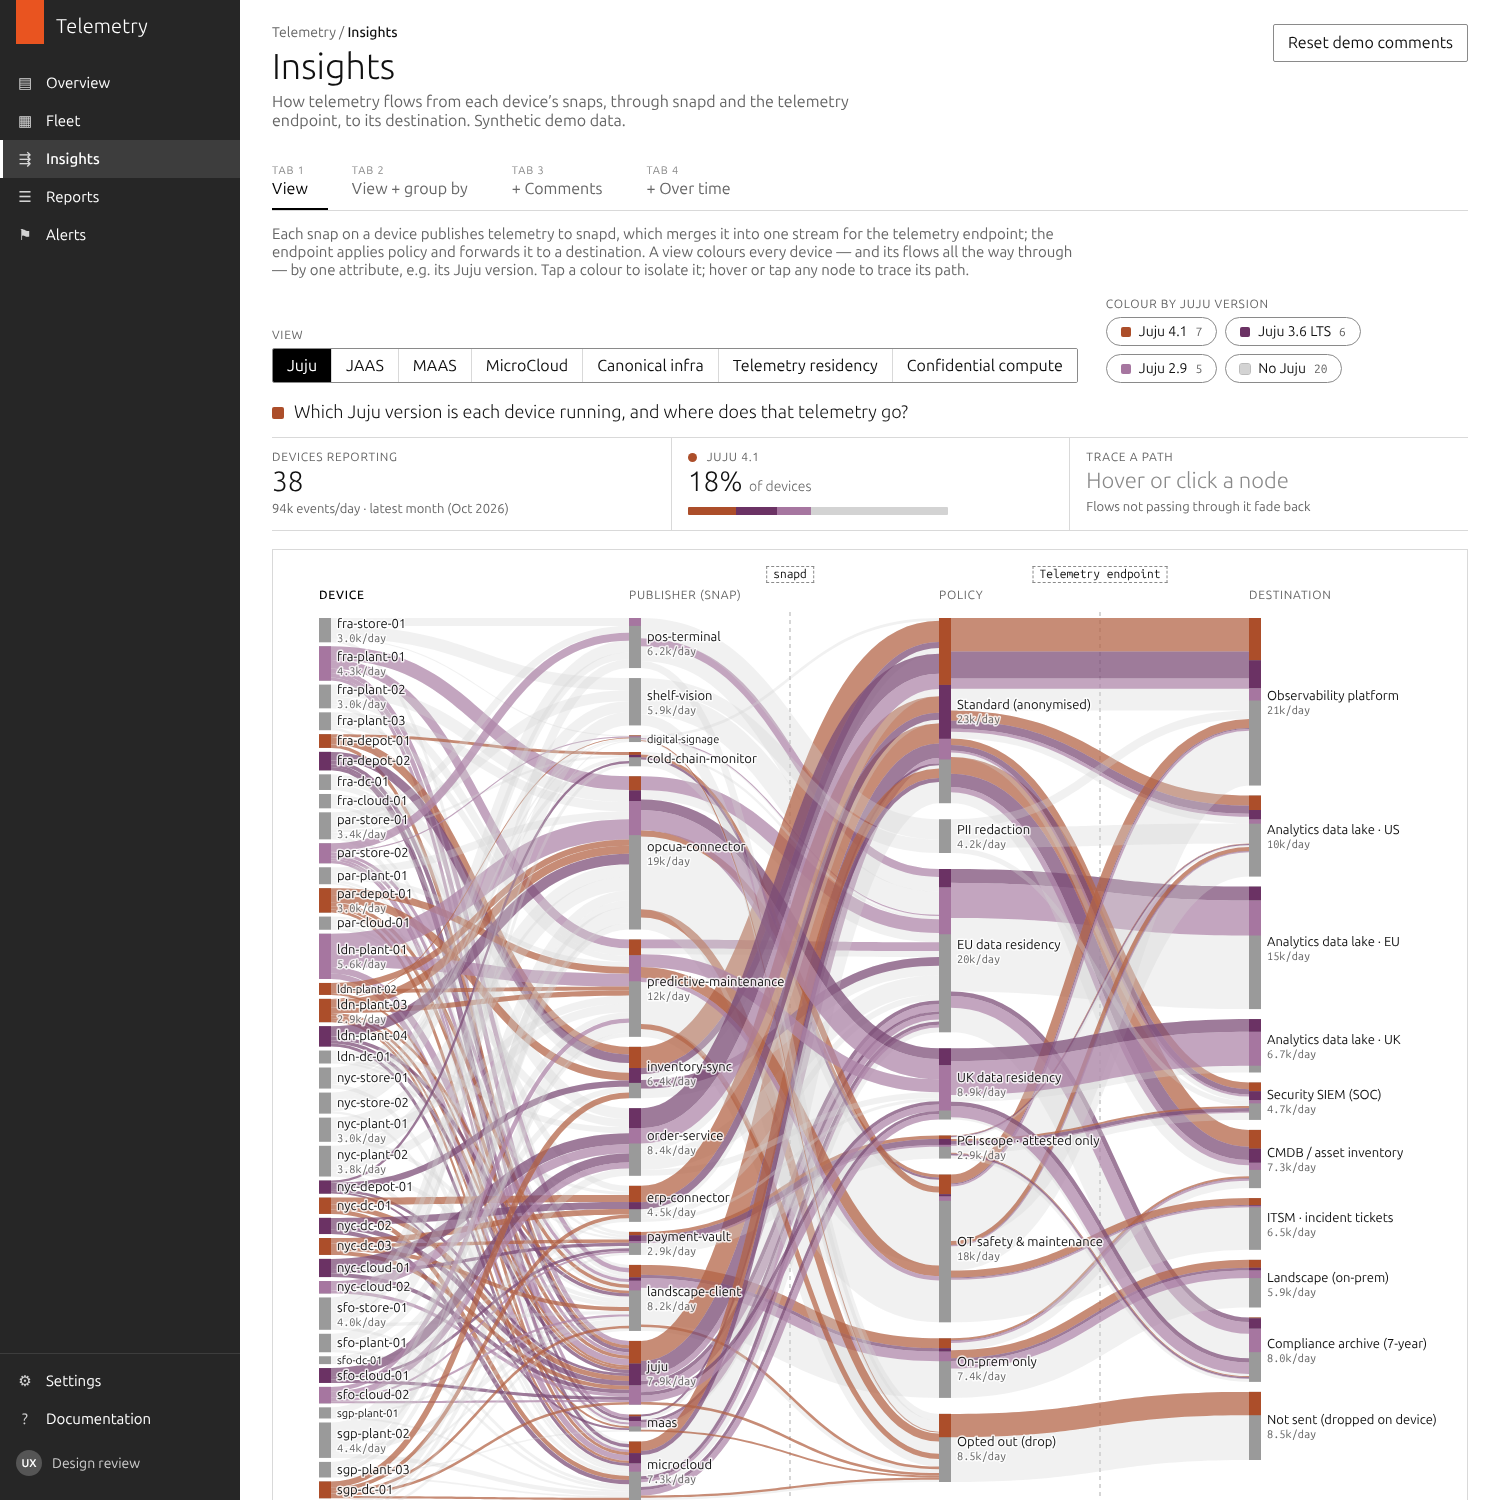
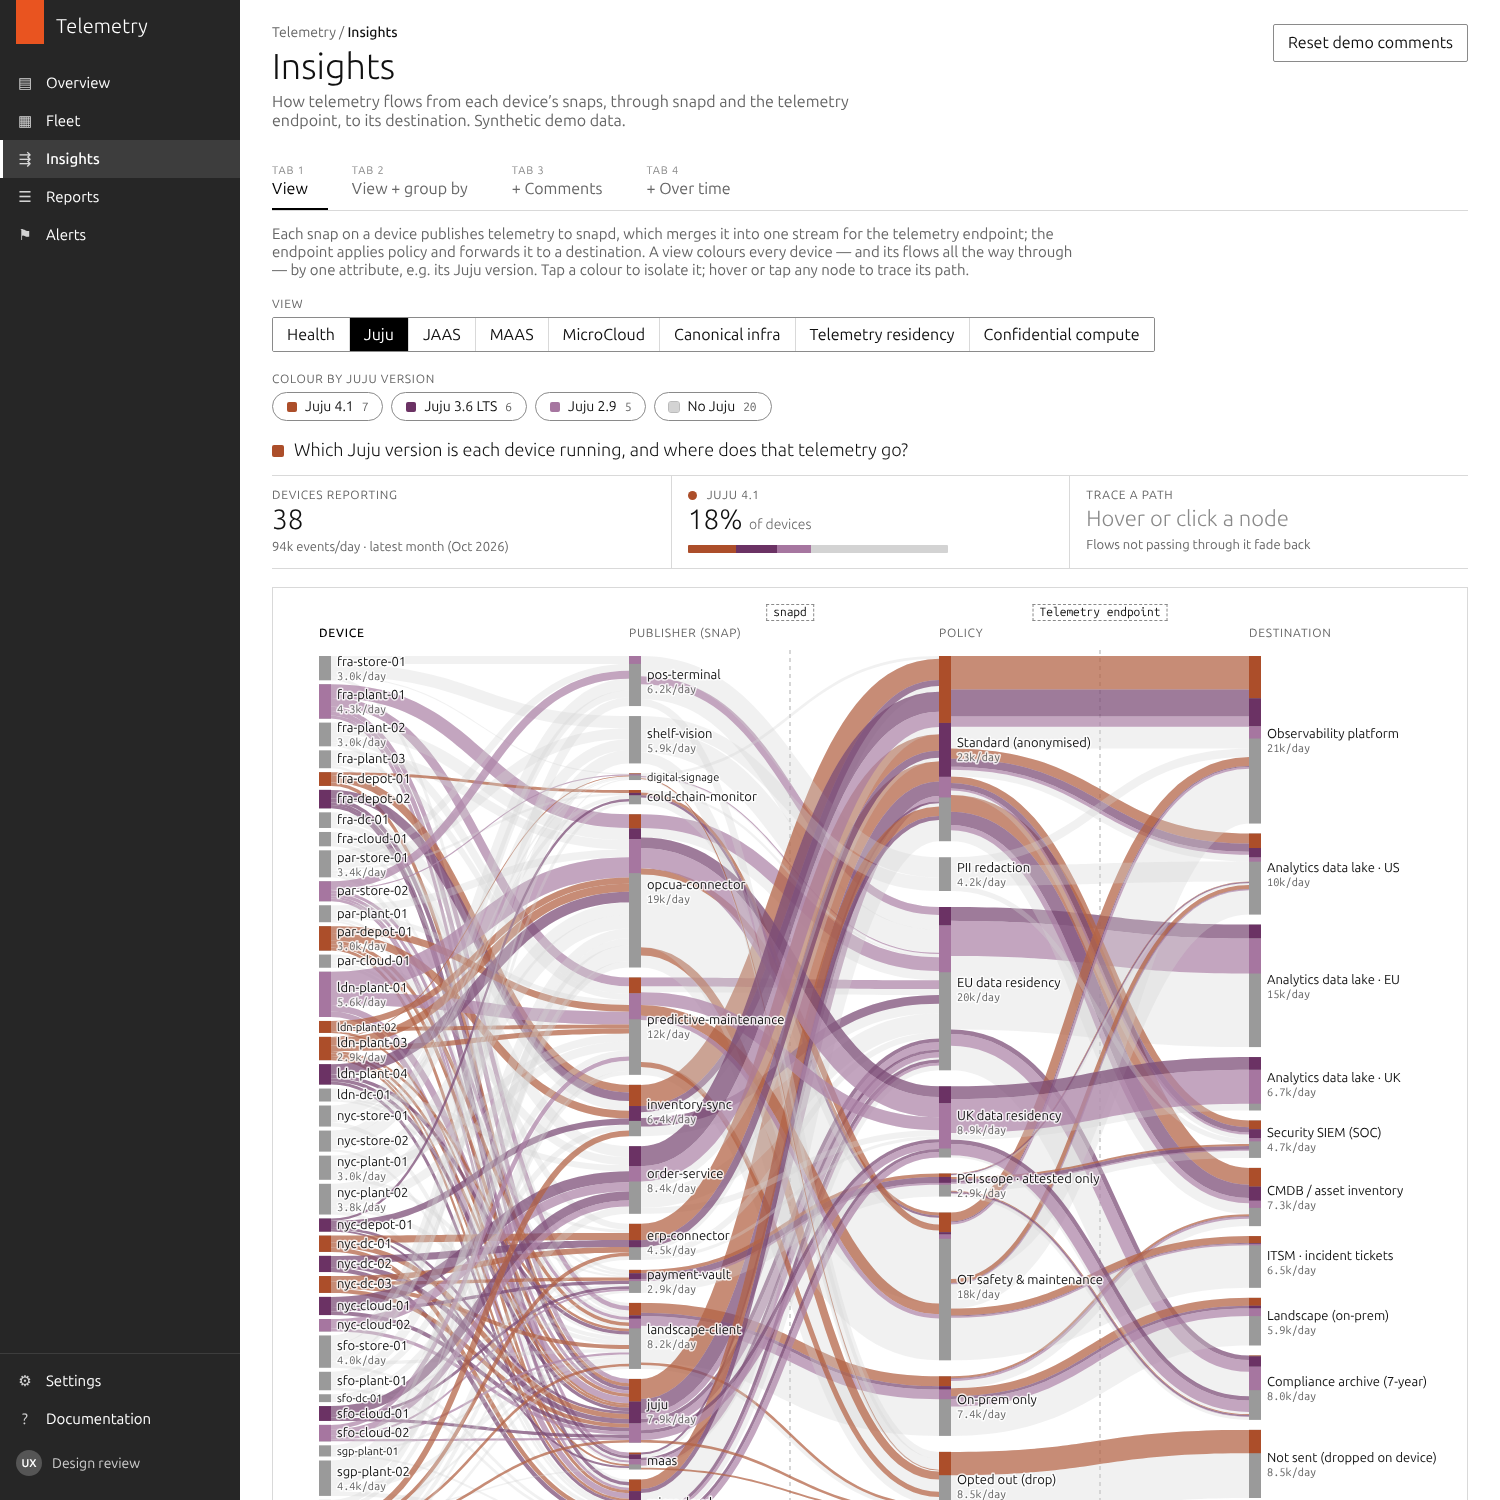
Add device health: composite score, 10-point bands, gradient scale
Health is a 0-100 score per device per month built from weighted
components (patch currency, snap refresh currency, release support,
reporting regularity, policy compliance, stability), shown as a view and
group-by in bands of 10. Bands use a diverging gradient derived from the
design palette (rust -> neutral -> teal, interpolated in OKLCH). Adds an
average-health KPI with trend, a per-component breakdown in device
tooltips, Ubuntu 20.04 (ESM) for neglected devices, and a seeded comment.

Claude-Session: https://claude.ai/code/session_0156BKrAD5wHGfcWHmuamSMf

Changed region(s): [[0.184, 0.2147, 0.9507, 1.0]]

diff --git a/js/data.js b/js/data.js
@@ -122,13 +122,27 @@ window.TL = window.TL || {};
       { id: 'fra', label: 'Frankfurt' }, { id: 'par', label: 'Paris' }, { id: 'ldn', label: 'London' },
       { id: 'nyc', label: 'New York' }, { id: 'sfo', label: 'San Francisco' }, { id: 'sgp', label: 'Singapore' }] },
     release: { label: 'Ubuntu release', short: 'Release', values: [
-      { id: '2204', label: 'Ubuntu 22.04 LTS' }, { id: '2404', label: 'Ubuntu 24.04 LTS' }, { id: '2604', label: 'Ubuntu 26.04 LTS' }] }
+      { id: '2004', label: 'Ubuntu 20.04 (ESM)' }, { id: '2204', label: 'Ubuntu 22.04 LTS' }, { id: '2404', label: 'Ubuntu 24.04 LTS' }, { id: '2604', label: 'Ubuntu 26.04 LTS' }] }
   };
+
+  // Health bands use a diverging gradient built from the palette's own hues:
+  // palette rust (#79331A, #AC4E2A, #BC6D4C) for the worst bands, lightening
+  // to a neutral taupe/olive in the middle, then palette teal (#63998C)
+  // darkening to deep teal for the healthiest. Intermediate steps were
+  // interpolated in OKLCH so lightness mirrors either side of the middle and
+  // adjacent bands are roughly equal visual steps apart.
+  const HEALTH_RAMP = ['#79331A', '#AC4E2A', '#BC6D4C', '#BD876F', '#BE9D87', '#A7A880', '#8B9D75', '#63998C', '#3E786C', '#1C5B52'];
+  const HEALTH_BANDS = HEALTH_RAMP.map(function (c, i) {
+    const lo = i === 0 ? 0 : i * 10 + 1, hi = (i + 1) * 10;
+    return { id: lo + '-' + hi, label: lo + '–' + hi, color: c, lo: lo, hi: hi };
+  }).reverse(); // healthiest first
+  ATTRIBUTES.health = { label: 'Health', short: 'Health', ordinal: true, values: HEALTH_BANDS };
+  function healthBand(score) { return score <= 10 ? '0-10' : (Math.floor((score - 1) / 10) * 10 + 1) + '-' + (Math.floor((score - 1) / 10) * 10 + 10); }
 
   // assign palette colours: values marked `color: true` take the next colour
   // from the row matching the number of coloured values in that attribute
   Object.keys(ATTRIBUTES).forEach(function (k) {
-    const coloured = ATTRIBUTES[k].values.filter(function (v) { return v.color; });
+    const coloured = ATTRIBUTES[k].values.filter(function (v) { return v.color === true; });
     const row = paletteFor(coloured.length);
     coloured.forEach(function (v, i) { v.color = row[i]; });
   });
@@ -277,10 +291,58 @@ window.TL = window.TL || {};
     const layers = (a.maas !== 'none') + (a.microcloud === 'member') + (a.juju !== 'none');
     return a.juju !== 'none' && layers >= 2 ? 'full' : layers >= 1 ? 'partial' : 'none';
   }
+  // ---- Health: a composite 0–100 score per device per month ----------
+  // Weighted components (each 0–100). Edit weights or inputs here.
+  const HEALTH_COMPONENTS = [
+    { id: 'patch', label: 'Security patch currency', weight: 0.25 },
+    { id: 'snaps', label: 'Snap refresh currency', weight: 0.20 },
+    { id: 'release', label: 'Release support', weight: 0.15 },
+    { id: 'reporting', label: 'Reporting regularity', weight: 0.15 },
+    { id: 'policy', label: 'Policy compliance', weight: 0.15 },
+    { id: 'stability', label: 'Stability (crash rate)', weight: 0.10 }
+  ];
+  DEVICES.forEach(function (d, i) {
+    const r = mulberry32(7919 * (i + 1));
+    const neglected = r() < 0.2; // devices nobody is looking after
+    const ageing = !neglected && r() < 0.3; // patched, but slowly
+    const edge = d.attrs.site === 'store' || d.attrs.site === 'factory';
+    if (neglected && r() < 0.6) { // still on 20.04, never upgraded
+      d.attrs.release = '2004';
+      d.changes = d.changes.filter(function (c) { return !c.attrs.release; });
+    }
+    d.health = {
+      patch: neglected ? r() * 20 : ageing ? 35 + r() * 25 : (edge ? 65 : 80) + r() * 20,
+      snaps: neglected ? r() * 25 : ageing ? 40 + r() * 25 : 65 + r() * 30,
+      reporting: neglected ? 10 + r() * 40 : (edge ? 70 : 85) + r() * 15,
+      policy: neglected ? 20 + r() * 30 : null, // stale consent / policy settings
+      stability: neglected ? 40 + r() * 40 : 75 + r() * 25,
+      improve: neglected ? (r() < 0.4 ? 5 : 0) : ageing ? r() * 1.5 : r() * 0.8, // points per month as patching catches up
+      incident: r() < 0.3 ? Math.floor(r() * 12) : -1,          // one bad month
+      noise: r
+    };
+    d.health.noiseByMonth = MONTHS.map(function () { return (d.health.noise() - 0.5) * 8; });
+  });
+  function healthAt(d, a, m) {
+    const h = d.health, clamp = function (x) { return Math.max(0, Math.min(100, x)); };
+    const parts = {
+      patch: clamp(h.patch + h.improve * m + h.noiseByMonth[m]),
+      snaps: clamp(h.snaps + h.improve * m * 0.8 - (a.juju === '2.9' ? 20 : 0)),
+      release: a.release === '2604' ? 100 : a.release === '2404' ? 90 : a.release === '2204' ? 65 : 15,
+      reporting: a.consent === 'optout' ? 20 : h.incident === m ? 35 : clamp(h.reporting + h.noiseByMonth[m]),
+      policy: h.policy != null ? h.policy : (REGION_SOV[a.region] && a.sovereignty === 'none') ? 55 : a.consent === 'optout' ? 60 : 95,
+      stability: h.incident === m ? 5 : clamp(h.stability + h.noiseByMonth[m])
+    };
+    let score = 0;
+    HEALTH_COMPONENTS.forEach(function (c) { score += parts[c.id] * c.weight; });
+    return { score: Math.round(clamp(score)), parts: parts };
+  }
+
   function attrsAt(d, m) {
     const a = Object.assign({}, d.attrs);
     d.changes.forEach(function (c) { if (c.month <= m) Object.assign(a, c.attrs); });
     a.stack = deriveStack(a);
+    const h = healthAt(d, a, m);
+    a.healthScore = h.score; a.healthParts = h.parts; a.health = healthBand(h.score);
     return a;
   }
   function publishersFor(d, a) {
@@ -355,6 +417,7 @@ window.TL = window.TL || {};
   // ---- Views & group-bys ----------------------------------------------
   // A view = one attribute to colour by + the question it answers.
   const VIEWS = [
+    { id: 'health', attr: 'health', label: 'Health', question: 'How healthy is each device, and where does telemetry from unhealthy devices go?' },
     { id: 'juju', attr: 'juju', label: 'Juju', question: 'Which Juju version is each device running, and where does that telemetry go?' },
     { id: 'jaas', attr: 'jaas', label: 'JAAS', question: 'Which devices are managed through JAAS versus self-hosted controllers?' },
     { id: 'maas', attr: 'maas', label: 'MAAS', question: 'Which devices are provisioned by MAAS, and on which version?' },
@@ -363,11 +426,11 @@ window.TL = window.TL || {};
     { id: 'sovereignty', attr: 'sovereignty', label: 'Telemetry residency', question: 'Which residency rule does each device’s telemetry follow, and where does it end up?' },
     { id: 'confidential', attr: 'confidential', label: 'Confidential compute', question: 'Which devices run confidential VMs, and where does their payment telemetry go?' }
   ];
-  const GROUP_BYS = ['device', 'site', 'juju', 'jaas', 'maas', 'microcloud', 'stack', 'sovereignty', 'confidential', 'type', 'region', 'release'];
+  const GROUP_BYS = ['device', 'health', 'site', 'juju', 'jaas', 'maas', 'microcloud', 'stack', 'sovereignty', 'confidential', 'type', 'region', 'release'];
 
   Object.assign(TL, {
     MONTHS: MONTHS, monthLabel: monthLabel,
-    ATTRIBUTES: ATTRIBUTES, DIMENSIONS: DIMENSIONS, ROUTING: ROUTING, PALETTE: PALETTE,
+    ATTRIBUTES: ATTRIBUTES, DIMENSIONS: DIMENSIONS, ROUTING: ROUTING, PALETTE: PALETTE, HEALTH_COMPONENTS: HEALTH_COMPONENTS, HEALTH_RAMP: HEALTH_RAMP,
     // shared infrastructure every flow passes through (drawn between columns)
     WAYPOINTS: [
       { after: 'publisher', label: 'snapd', sub: 'one stream per device' },

diff --git a/js/app.js b/js/app.js
@@ -229,11 +229,22 @@
       return '<span class="p-dist__seg" style="flex:' + c + ';background:' + (v.color || '#d3d3d3') + '" title="' + esc(v.label) + ': ' + c + '"></span>';
     }).join('');
     const iso = state.isolate[state.view];
-    const kv = iso ? a.values.filter(function (x) { return x.id === iso; })[0] : a.values[0];
-    const share = counts._total ? (counts[kv.id] || 0) / counts._total * 100 : 0;
-    items.push(kpi('<span class="dot" style="background:' + (kv.color || '#999') + '"></span>' + esc(kv.label),
-      share.toFixed(0) + '% <span class="p-kpi__unit">of devices</span>',
-      '<span class="p-dist">' + bar + '</span>', t.time ? sparkline(kv) : ''));
+    if (view().attr === 'health' && !iso) {
+      // health is a score: show the fleet average and its trend
+      const avg = avgHealth(pi);
+      const band = TL.valueOf('health', bandOf(avg));
+      items.push(kpi('<span class="dot" style="background:' + band.color + '"></span>Average health',
+        Math.round(avg) + ' <span class="p-kpi__unit">/ 100</span>',
+        '<span class="p-dist">' + bar + '</span>',
+        t.time ? sparkline(TL.MONTHS.map(function (_, m) { return avgHealth(m); }), band.color) : ''));
+    } else {
+      const kv = iso ? a.values.filter(function (x) { return x.id === iso; })[0] : a.values[0];
+      const share = counts._total ? (counts[kv.id] || 0) / counts._total * 100 : 0;
+      items.push(kpi('<span class="dot" style="background:' + (kv.color || '#999') + '"></span>' + esc(kv.label),
+        share.toFixed(0) + '% <span class="p-kpi__unit">of devices</span>',
+        '<span class="p-dist">' + bar + '</span>',
+        t.time ? sparkline(TL.MONTHS.map(function (_, m) { const c = deviceCounts(m, view().attr); return c._total ? (c[kv.id] || 0) / c._total * 100 : 0; }), kv.color || '#666') : ''));
+    }
     const focusId = state.hover || state.selected;
     if (focusId && agg.nodes[focusId]) {
       const n = agg.nodes[focusId];
@@ -248,10 +259,22 @@
   function kpi(label, value, sub, extra, wide) {
     return '<div class="p-kpi' + (wide ? ' p-kpi--wide' : '') + '"><div class="p-kpi__label">' + label + '</div><div class="p-kpi__value">' + value + '</div><div class="p-kpi__sub">' + sub + '</div>' + (extra || '') + '</div>';
   }
-  function sparkline(kv) {
-    const vals = TL.MONTHS.map(function (_, m) { const c = deviceCounts(m, view().attr); return c._total ? (c[kv.id] || 0) / c._total * 100 : 0; });
+  // average health score of the (filtered) devices reporting in month m
+  function avgHealth(m) {
+    const seen = {}, f = filterFn(); let sum = 0, n = 0;
+    TL.snapshot(m).forEach(function (x) {
+      if (seen[x.device] || (f && !f(x))) return;
+      seen[x.device] = 1; sum += x.healthScore; n++;
+    });
+    return n ? sum / n : 0;
+  }
+  function bandOf(score) {
+    score = Math.round(score);
+    return TL.ATTRIBUTES.health.values.filter(function (v) { return score >= v.lo && score <= v.hi; })[0].id;
+  }
+  function sparkline(vals, col) {
     const min = Math.min.apply(null, vals), max = Math.max.apply(null, vals);
-    const W = 120, H = 30, rng = (max - min) || 1, col = kv.color || '#666';
+    const W = 120, H = 30, rng = (max - min) || 1;
     const pts = vals.map(function (v, i) { return (i / LAST * W).toFixed(1) + ',' + (H - 3 - (v - min) / rng * (H - 6)).toFixed(1); });
     const cx = month() / LAST * W, iy = H - 3 - (vals[periodIndex()] - min) / rng * (H - 6);
     return '<svg class="p-kpi__spark" viewBox="0 0 ' + W + ' ' + H + '" width="' + W + '" height="' + H + '" aria-hidden="true">' +
@@ -435,7 +458,15 @@
     if (n.dim === 'device') {
       const d = TL.deviceAt(n.val, periodIndex());
       const a = d.attrs;
-      body = '<dl class="tooltip__attrs">' + ['site', 'type', 'region', 'juju', 'jaas', 'maas', 'microcloud', 'sovereignty', 'confidential', 'release'].map(function (k) {
+      const band = TL.valueOf('health', a.health);
+      body = '<div class="tooltip__health"><span class="dot" style="background:' + band.color + '"></span>Health <strong>' + a.healthScore + '</strong> <span class="tooltip__band">(' + band.label + ')</span></div>';
+      if (view().attr === 'health') {
+        body += '<dl class="tooltip__parts">' + TL.HEALTH_COMPONENTS.map(function (c) {
+          const v = Math.round(a.healthParts[c.id]);
+          return '<dt>' + esc(c.label) + ' <span>' + Math.round(c.weight * 100) + '%</span></dt><dd><span class="tooltip__bar"><span style="width:' + v + '%;background:' + TL.valueOf('health', bandOf(v)).color + '"></span></span>' + v + '</dd>';
+        }).join('') + '</dl>';
+      }
+      body += '<dl class="tooltip__attrs">' + ['site', 'type', 'region', 'juju', 'jaas', 'maas', 'microcloud', 'sovereignty', 'confidential', 'release'].map(function (k) {
         return '<dt>' + esc(TL.ATTRIBUTES[k].short) + '</dt><dd' + (k === view().attr ? ' class="is-view"' : '') + '>' + esc(TL.valueOf(k, a[k]).label) + '</dd>';
       }).join('') + '</dl>';
       const hist = d.changes.filter(function (c) { return c.month <= periodIndex(); });

diff --git a/css/app.css b/css/app.css
@@ -299,3 +299,14 @@ body[data-tab="3"] .insights__body, body[data-tab="4"] .insights__body { grid-te
   .chart-hint { display: block; }
   .p-search { width: 100%; min-width: 0; margin-left: 0; }
 }
+
+/* Health in tooltips */
+.tooltip__health { margin-top: 4px; }
+.tooltip__health strong { display: inline; font-weight: 600; }
+.tooltip__band { color: #bbb; }
+.tooltip__parts { display: grid; grid-template-columns: auto auto; gap: 2px 10px; margin: 6px 0 0; padding-bottom: 6px; border-bottom: 1px solid #333; font-size: .75rem; }
+.tooltip__parts dt { color: #ddd; }
+.tooltip__parts dt span { color: #999; }
+.tooltip__parts dd { margin: 0; display: flex; align-items: center; gap: 6px; font-family: "Ubuntu Sans Mono", ui-monospace, monospace; }
+.tooltip__bar { display: inline-block; width: 60px; height: 6px; background: #333; }
+.tooltip__bar span { display: block; height: 100%; }

diff --git a/js/comments.js b/js/comments.js
@@ -20,9 +20,11 @@
  */
 (function (TL) {
   'use strict';
-  const KEY = 'tl.insights.comments.v7';
+  const KEY = 'tl.insights.comments.v8';
 
   const SEED = [
+    { anchor: { view: 'health', groupBy: 'health', node: 'health:21-30', period: null },
+      author: 'Plant IT · London', body: 'This is ldn-plant-04: still on 20.04 and unpatched since the line was retooled. Booked for rebuild next month.' },
     { anchor: { view: 'juju', groupBy: 'juju', node: 'juju:2.9', period: null },
       author: 'Platform engineering', body: 'These are the last Juju 2.9 deployments. Can we export the device list for the upgrade backlog?' },
     { anchor: { view: 'juju', groupBy: 'juju', node: 'juju:4.1', period: '2026-06' },

diff --git a/README.md b/README.md
@@ -51,6 +51,32 @@ Policy rules route these by sensitivity:
 - factory and sensor data follow the OT policy to observability and ITSM (R7),
 - payment data is PCI scope, attested only (R2).
 
+## Health
+
+Health is a composite score from 0 to 100 per device per month, made of weighted components (`HEALTH_COMPONENTS` in `js/data.js`):
+
+| Component | Weight |
+|---|---|
+| Security patch currency | 25% |
+| Snap refresh currency | 20% |
+| Release support (26.04 = 100 … 20.04 ESM = 15) | 15% |
+| Reporting regularity | 15% |
+| Policy compliance | 15% |
+| Stability (crash rate) | 10% |
+
+The score is shown in ten bands: 0–10, 11–20 … 91–100.
+
+**Colours.** The bands use a diverging gradient built from the design palette:
+- **Worst bands:** the palette's rusts (`#79331A`, `#AC4E2A`, `#BC6D4C`).
+- **Middle bands:** a neutral taupe and olive.
+- **Best bands:** the palette teal (`#63998C`), darkening to deep teal.
+
+The intermediate steps were interpolated in OKLCH. Lightness mirrors either side of the middle, and adjacent bands are roughly equal visual steps apart.
+
+**In the interface:**
+- The KPI shows the fleet's average score, with its monthly trend on the Over time tab.
+- In the Health view, each device's tooltip breaks the score down by component.
+
 ## Views
 
 | View | Colours devices by | Values |

diff --git a/CLAUDE.md b/CLAUDE.md
@@ -15,6 +15,10 @@ Prototype of the **Insights** page (Telemetry product): a Sankey shown as four d
 - Destinations are the customer's own systems (observability, data lakes, SIEM, CMDB, ITSM, Landscape, archive), not Canonical services.
 - Goal is to show where data goes and why. Zone-crossing flags / "leaving its zone" KPIs are explicitly not an objective.
 
+## Health
+- Health = composite 0–100 "magic number" from weighted components, shown in bands of 10 (0–10, 11–20 … 91–100).
+- Health uses an adjacent/gradient colour scale (diverging rust → taupe/olive → teal, derived from the design palette), not the contrasting categorical palette.
+
 ## Sankey rules agreed with the user
 - Columns are fixed: **Device → Publisher → Policy → Destination**. Only column 1 changes.
 - A **view** colours devices (and their flows end to end) by one attribute, e.g. Juju version. Views never change columns.
